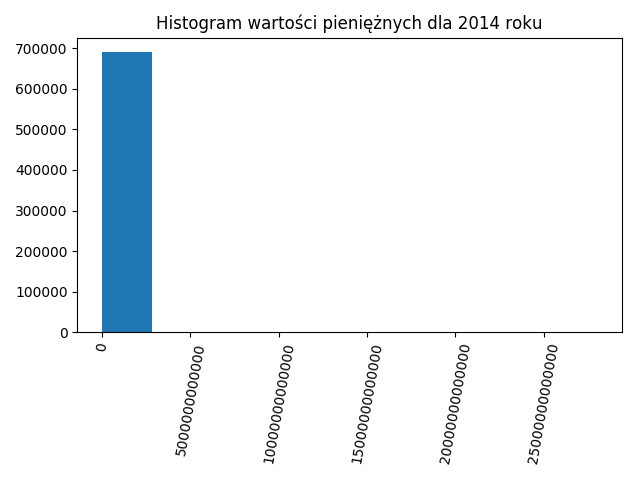
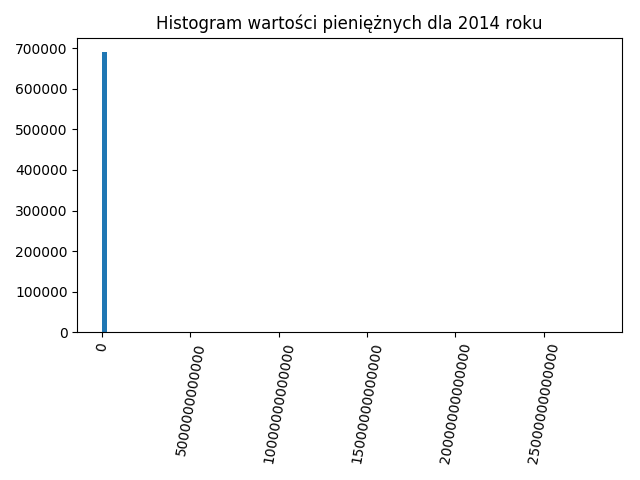
fix hist

Changed region(s): [[0.1562, 0.0938, 0.25, 0.7188]]

diff --git a/1-regexp/drawHist.py b/1-regexp/drawHist.py
@@ -7,7 +7,7 @@ with open('money2.txt') as fp:
 
 
 beforeSplitFig = plt.figure();
-plt.hist(money);
+plt.hist(money, bins=100);
 plt.ticklabel_format(style='plain');
 plt.xticks(rotation=80);
 plt.title("Histogram wartości pieniężnych dla 2014 roku");
@@ -24,7 +24,7 @@ for value in money:
         higherThan1M.append(value);
 
 lowerThan1MFig = plt.figure();
-plt.hist(lowerThan1M);
+plt.hist(lowerThan1M, bins=100);
 plt.ticklabel_format(style='plain');
 plt.title("Histogram wartości pieniężnych <1mln dla 2014 roku");
 plt.xticks(rotation=80);
@@ -32,7 +32,7 @@ plt.tight_layout()
 lowerThan1MFig.savefig("lowerThan1M.png");
 
 higherThan1MFig = plt.figure();
-plt.hist(higherThan1M);
+plt.hist(higherThan1M, bins=100);
 plt.xticks(rotation=80);
 plt.title("Histogram wartości pięniężnych >1mln dla 2014 roku");
 plt.ticklabel_format(style='plain');
